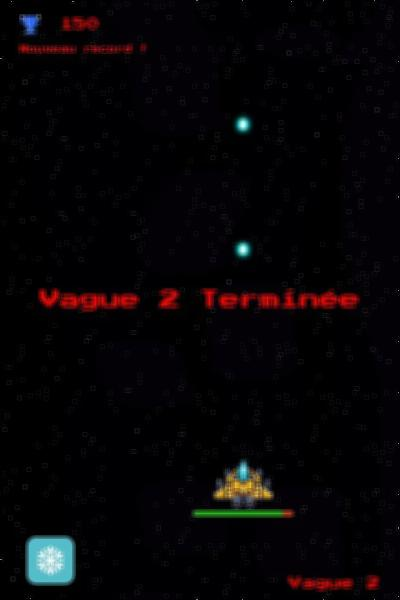
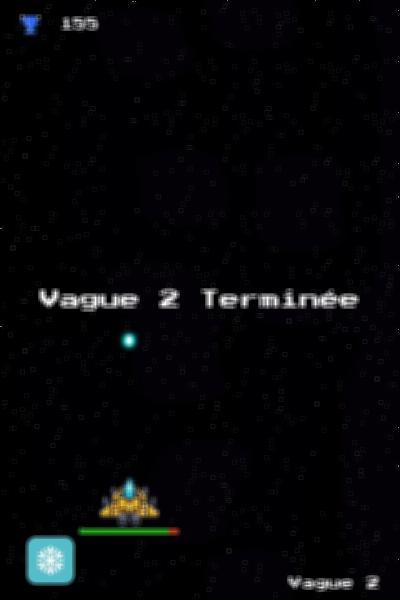
time ajout

diff --git a/main.py b/main.py
@@ -107,8 +107,8 @@ class Explosion(pygame.sprite.Sprite):
     def remove(self):
         self.monster.all_laser.remove(self)
     #classe mouvement du laser #
-    def move(self):
-        self.rect.y += self.velocity
+    def move(self, time):
+        self.rect.y += self.velocity * time
         from main import screen
         if self.rect.y >  screen.get_height():
             self.remove()
@@ -179,7 +179,7 @@ class Projectile(pygame.sprite.Sprite) :
         soundObj = pygame.mixer.Sound('sounds/player_shoot.wav')
         soundObj.set_volume(float(saveread("volume2")))
         soundObj.play()
-        self.velocity = 4.5
+        self.velocity = 450
         self.player = player
         self.image = pygame.image.load('assets/missiles/PlayProjectile.png')
         self.image = pygame.transform.scale(self.image, (20,20))
@@ -190,13 +190,13 @@ class Projectile(pygame.sprite.Sprite) :
     def remove(self):
         self.player.all_projectiles.remove(self)
 
-    def move(self):
+    def move(self,time):
         for monster in self.player.game.check_collision(self, self.player.game.all_monsters) :
             self.remove()
             monster.damage(self.player.attack)
         if self.rect.y < -10 :
             self.remove()
-        self.rect.y -= self.velocity
+        self.rect.y -= self.velocity * time
 
 class Player(pygame.sprite.Sprite):
     def __init__(self, game):
@@ -205,7 +205,7 @@ class Player(pygame.sprite.Sprite):
         self.health = 100
         self.max_health = 100
         self.attack = 15
-        self.velocity = 3.5
+        self.velocity = 440
         self.score = 0
         self.all_projectiles = pygame.sprite.Group()
         self.image = pygame.image.load('assets/vaisseaux/player/ship 01/nomove.png')
@@ -242,20 +242,20 @@ class Player(pygame.sprite.Sprite):
     def ShootUp(self, x) :
         self.shoot_delay -= x
 
-    def move_right(self):
-        self.rect.x += self.velocity
+    def move_right(self, time):
+        self.rect.x += self.velocity * time
         self.image = pygame.image.load('assets/vaisseaux/player/ship 01/right.png')
         self.image = pygame.transform.scale(self.image, (80, 80))
-    def move_left(self):
-        self.rect.x -= self.velocity
+    def move_left(self, time):
+        self.rect.x -= self.velocity * time
         self.image = pygame.image.load('assets/vaisseaux/player/ship 01/left.png')
         self.image = pygame.transform.scale(self.image, (80,80))
-    def move_up(self):
-        self.rect.y -= self.velocity
+    def move_up(self, time):
+        self.rect.y -= self.velocity * time
         self.image = pygame.image.load('assets/vaisseaux/player/ship 01/nomove.png')
         self.image = pygame.transform.scale(self.image, (80,80))
-    def move_down(self):
-        self.rect.y += self.velocity
+    def move_down(self, time):
+        self.rect.y += self.velocity * time
         self.image = pygame.image.load('assets/vaisseaux/player/ship 01/nomove.png')
         self.image = pygame.transform.scale(self.image, (80,80))
     def no_move(self):
@@ -644,7 +644,8 @@ def jeu():
     while running :
         #appliquer arrière plan et défilement#
 
-        clock.tick(120)
+        dt = clock.tick(120)
+        time = dt/1000
         print(clock.get_fps())
         if freeze != 1:
             y_background += 0.25
@@ -700,7 +701,7 @@ def jeu():
 
         #récupérer tout les projectiles du joueur #
         for projectile in game.player.all_projectiles :
-            projectile.move()
+            projectile.move(time)
 
         game.player.update_health_bar(screen)
 
@@ -731,13 +732,13 @@ def jeu():
         if game.pressed.get(pygame.K_SPACE):
             game.player.launch_projectile()
         if (game.pressed.get(pygame.K_DOWN) or game.pressed.get(pygame.K_s)) and game.player.rect.y + (game.player.rect.height) < screen.get_height():
-            game.player.move_down()
+            game.player.move_down(time)
         if (game.pressed.get(pygame.K_UP) or game.pressed.get(pygame.K_z)) and game.player.rect.y > 0:
-            game.player.move_up()
+            game.player.move_up(time)
         if (game.pressed.get(pygame.K_RIGHT) or game.pressed.get(pygame.K_d)):
-            game.player.move_right()
+            game.player.move_right(time)
         if (game.pressed.get(pygame.K_LEFT) or game.pressed.get(pygame.K_q)):
-            game.player.move_left()
+            game.player.move_left(time)
         if not((game.pressed.get(pygame.K_DOWN) or game.pressed.get(pygame.K_s)) or  
             (game.pressed.get(pygame.K_UP) or game.pressed.get(pygame.K_z)) or 
             (game.pressed.get(pygame.K_RIGHT) or game.pressed.get(pygame.K_d)) or  
